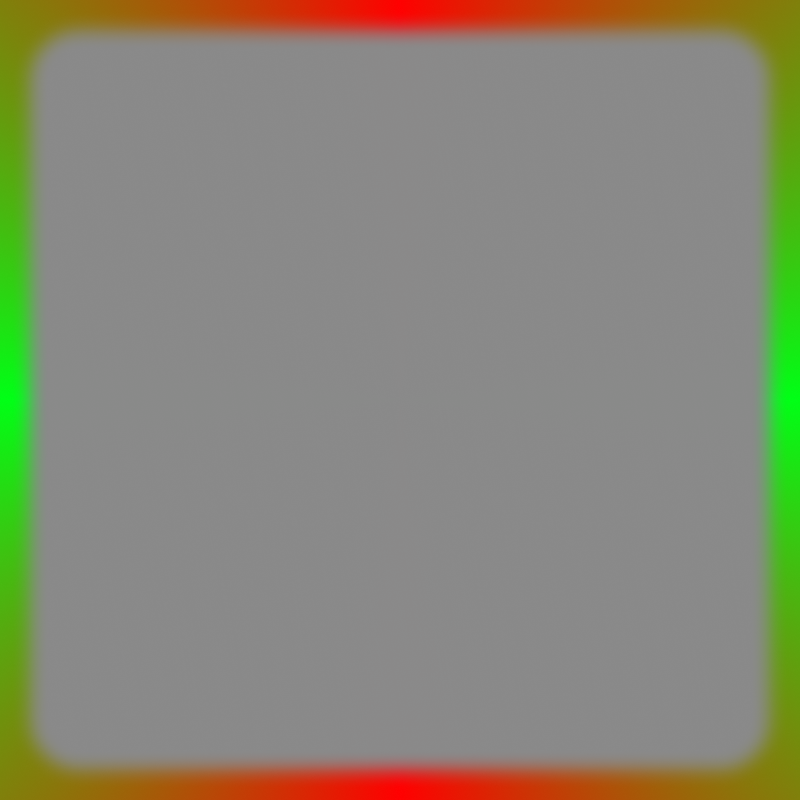
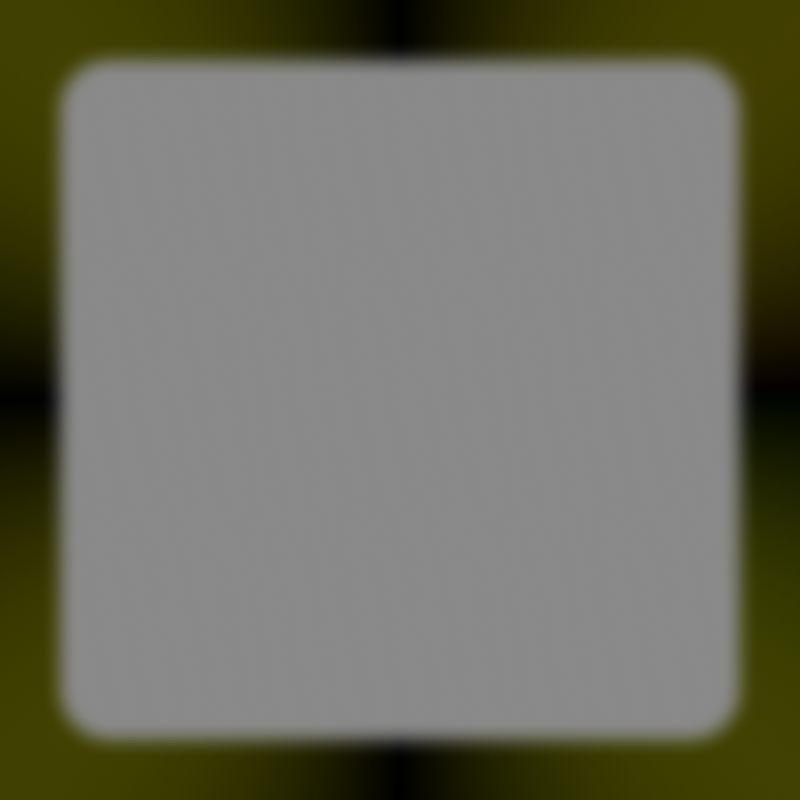
more glass stylings

diff --git a/styles.css b/styles.css
@@ -58,7 +58,6 @@ body {
     background-color: rgba(255, 255, 255, 0.25);
     box-shadow: 5px 5px 5px -5px rgba(255,255,255,0.8) inset, -5px -5px 15px -10px rgba(255,255,255,0.8) inset;
     backdrop-filter: blur(5px) contrast(1.5) brightness(0.9) url(#displacementFilter);
-    border: 1px rgba(0, 0, 0, 0.1) solid;
 }
 
 .glass.fogged{
@@ -67,6 +66,12 @@ body {
 
 .glass.large{
     backdrop-filter: blur(5px) contrast(1.5) brightness(0.9) url(#displacementFilterLarge);
+}
+
+@media (max-width: 750px) {
+    .glass.large{
+        backdrop-filter: blur(5px) contrast(1.5) brightness(0.9) url(#displacementFilterLargeVertical);
+    }
 }
 
 .glass.circular{
@@ -80,6 +85,10 @@ body {
 }
 
 @supports (hanging-punctuation: first) and (font: -apple-system-body) and (-webkit-appearance: none) {
+  .glass {
+    border: 1px rgba(0, 0, 0, 0.1) solid; 
+  }
+  
   .glass, .glass.large, .glass.circular, .glass.menu  {
     backdrop-filter: blur(5px) contrast(1.5) brightness(0.8);
   }
@@ -137,7 +146,7 @@ body {
 
 .menu{
     height: 5vh;
-    width: fit-content;
+    width: 180px;
     padding-top: 30px;
     margin-bottom: -10vh;
     padding: 30px;
@@ -148,11 +157,12 @@ body {
     z-index: 2;
     place-items: center;
     border-radius: 100px;
-    transition: all 0.5s;
+    transition: all 0.5s, width 0.25s;
 }
 
 .menu:hover{
     box-shadow: 5px 5px 5px -5px rgba(255,255,255,0.8) inset, -5px -5px 15px -10px rgba(255,255,255,0.8) inset;
+    width: 200px;
 }
 
 .menu > img {

diff --git a/filters.js b/filters.js
@@ -17,6 +17,10 @@ document.addEventListener("DOMContentLoaded", function() {
         <feImage href="images/displacement-large.png" preserveAspectRatio="none" />
         <feDisplacementMap in="SourceGraphic" scale="300" xChannelSelector="R" yChannelSelector="G" />
       </filter>
+      <filter id="displacementFilterLargeVertical">
+        <feImage href="images/displacement-large-vertical.png" preserveAspectRatio="none" />
+        <feDisplacementMap in="SourceGraphic" scale="300" xChannelSelector="R" yChannelSelector="G" />
+      </filter>
     </svg>
   `;
 
